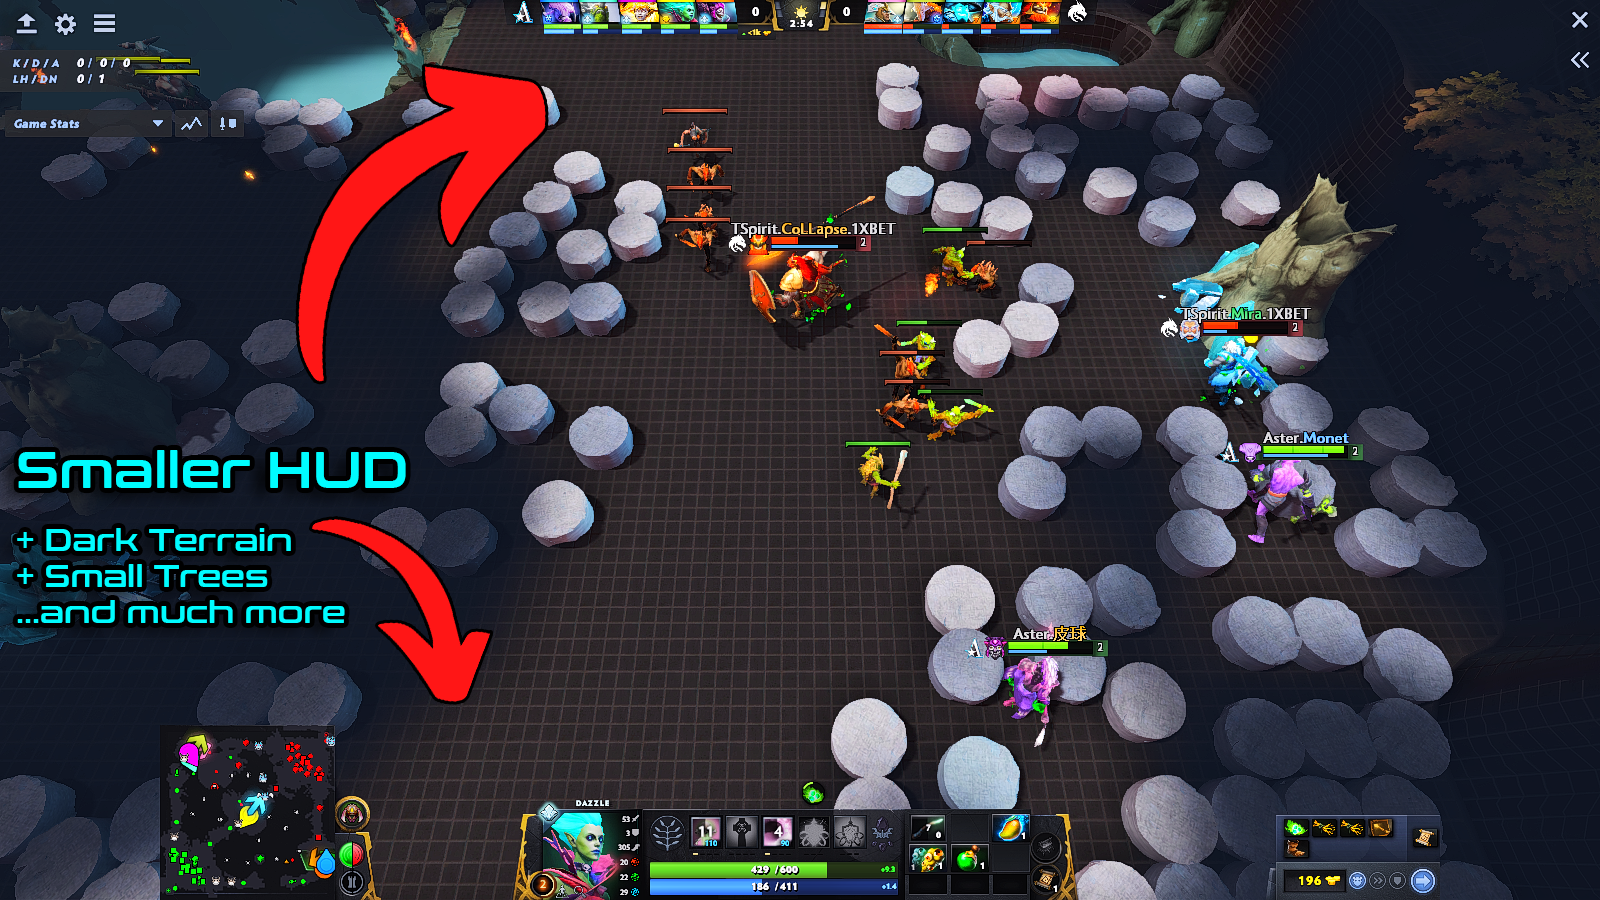
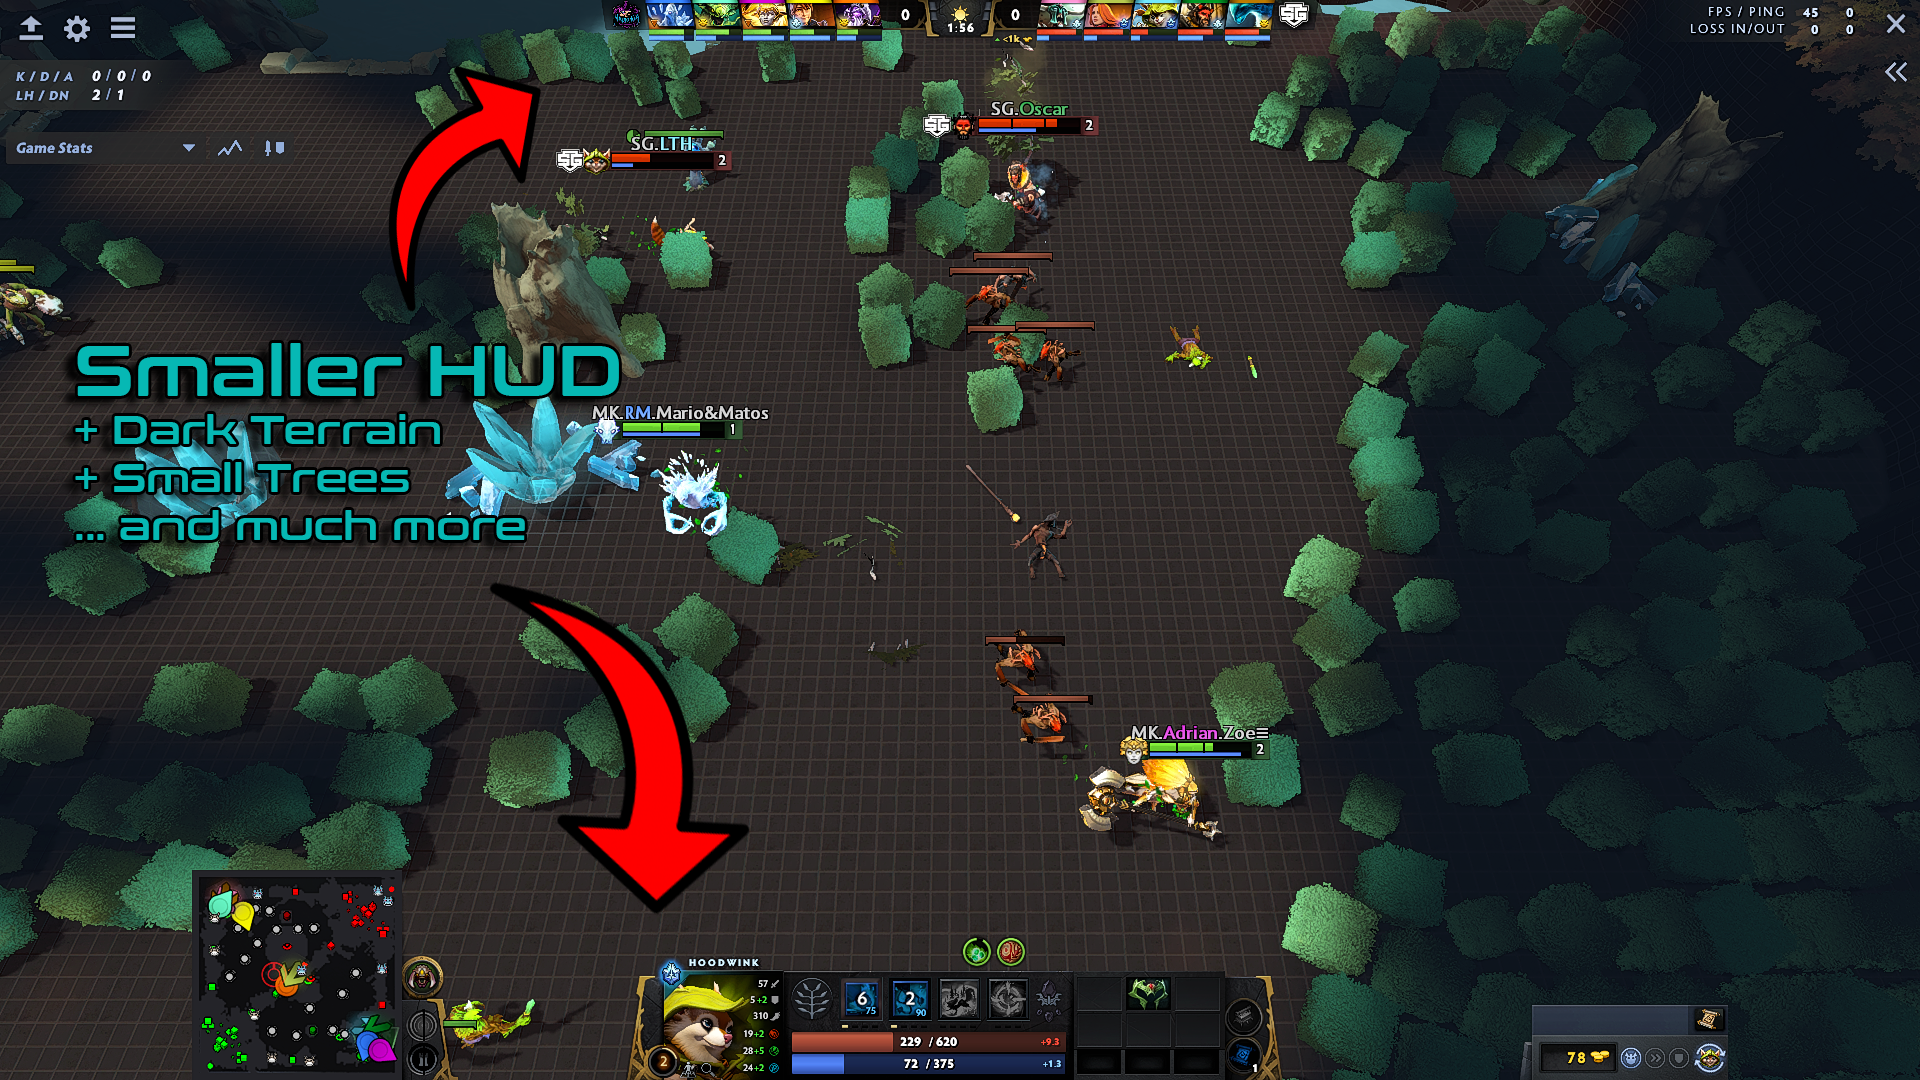
Update readme

diff --git a/readme.md b/readme.md
@@ -111,6 +111,6 @@ Once you get comfortable with the tools you can use Minify to patch them quickly
 - ⚙Remove taunts/tipping/hero voice lines/anything else annoying.
 - ⚙Upload your own main menu background
 - ⚙Swap hero/item sounds with your own audio files.
-- ⚙Better looking trees for Tree Mod
+- ⚙Tree mod and Dark Terrain for immortal gardens map.
 
 <p align="right">(<a href="#top">back to top</a>)</p>
